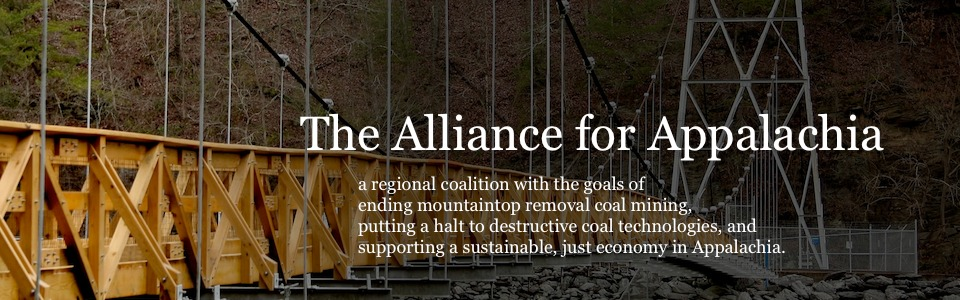
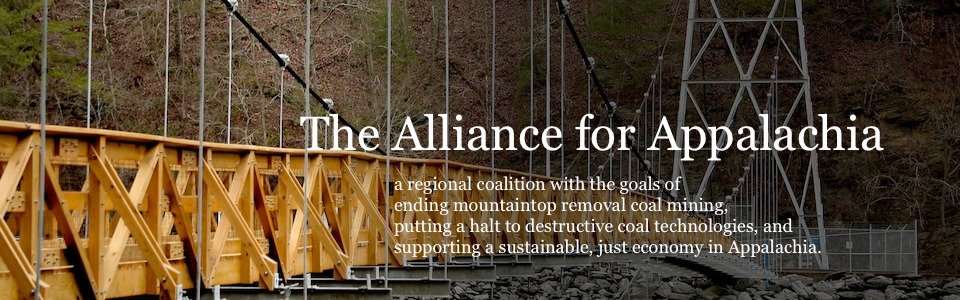
Changed default header pic to original with gradient instead of alpha split.

Changed region(s): [[0.125, 0.0, 0.875, 1.0]]

diff --git a/templates/base.html b/templates/base.html
@@ -31,7 +31,7 @@
 
         {% block header %}
         <div id="header">
-          <img src="{{ STATIC_URL }}img/header-2.jpg">
+          <img src="{{ STATIC_URL }}img/header-no-split.jpg">
         </div>
         {% endblock %}
 
